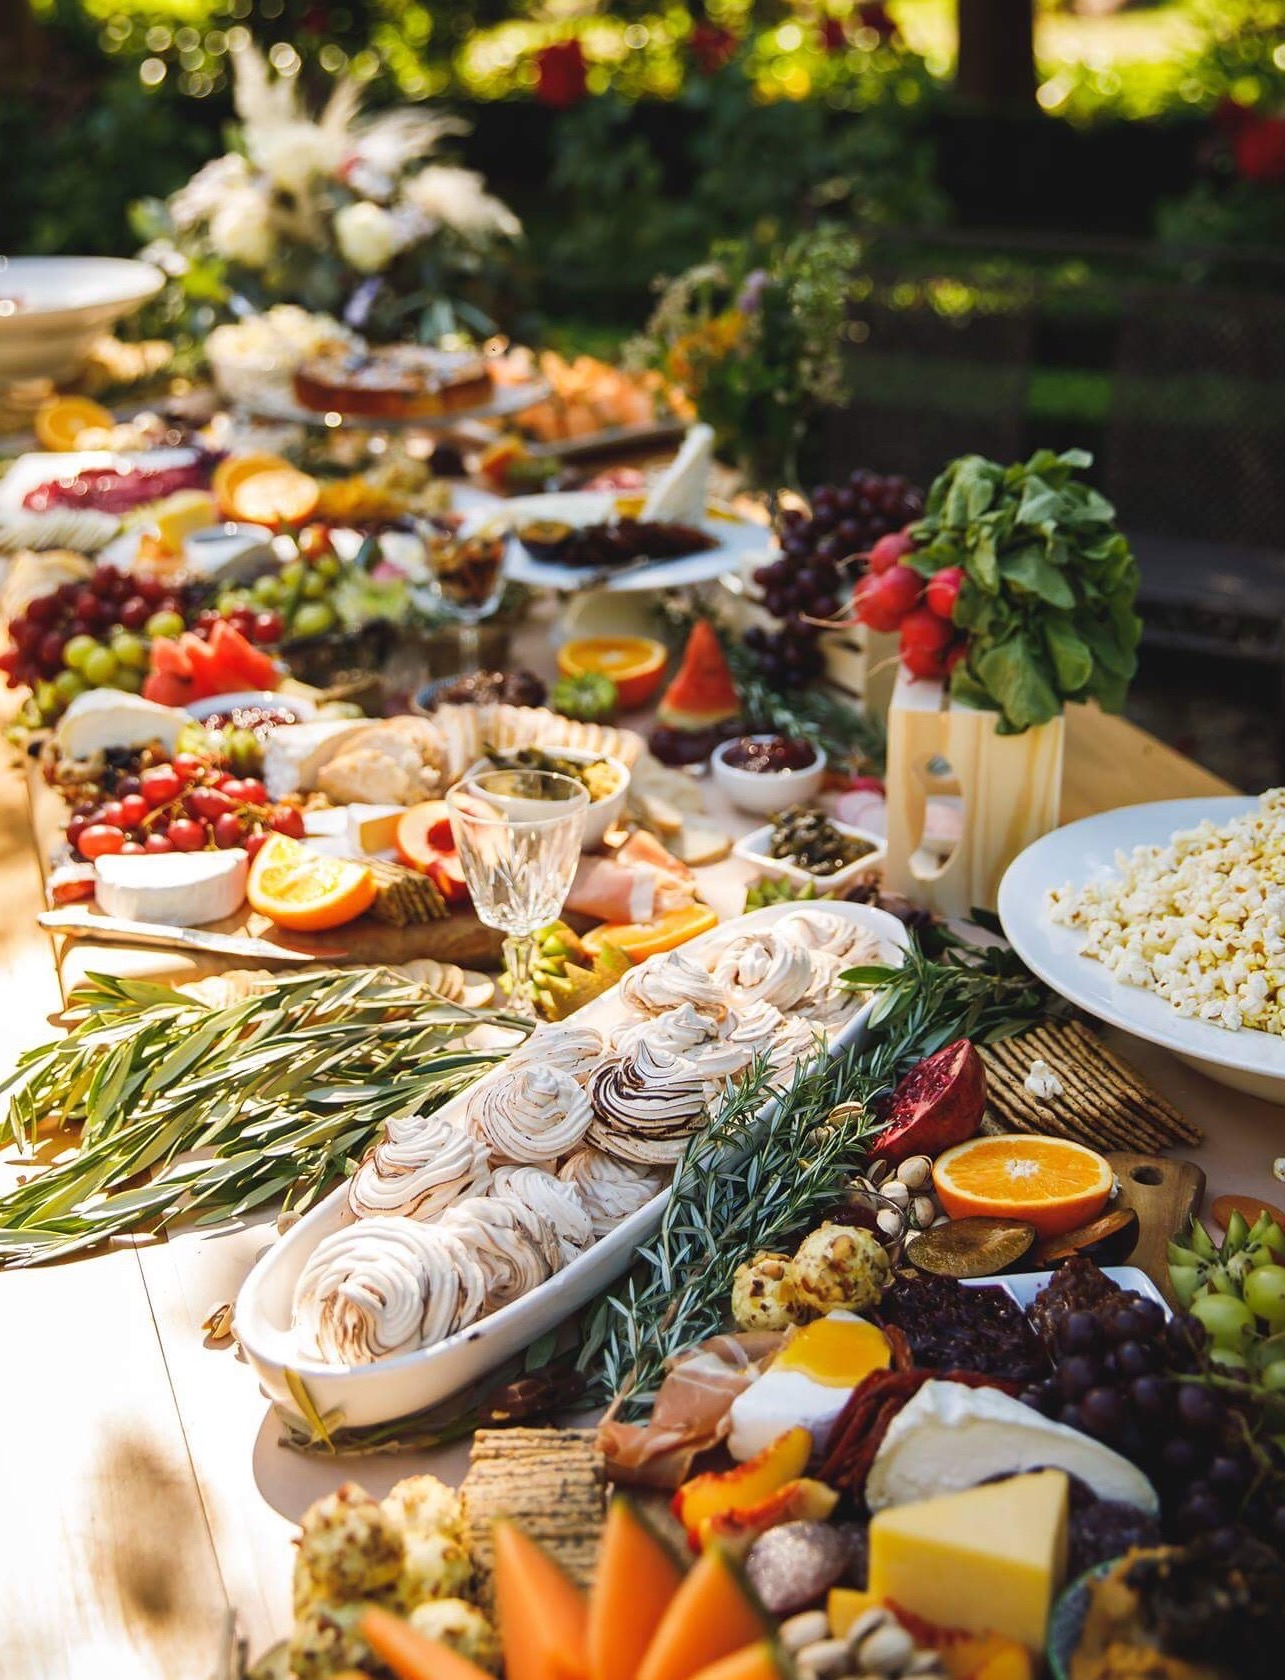
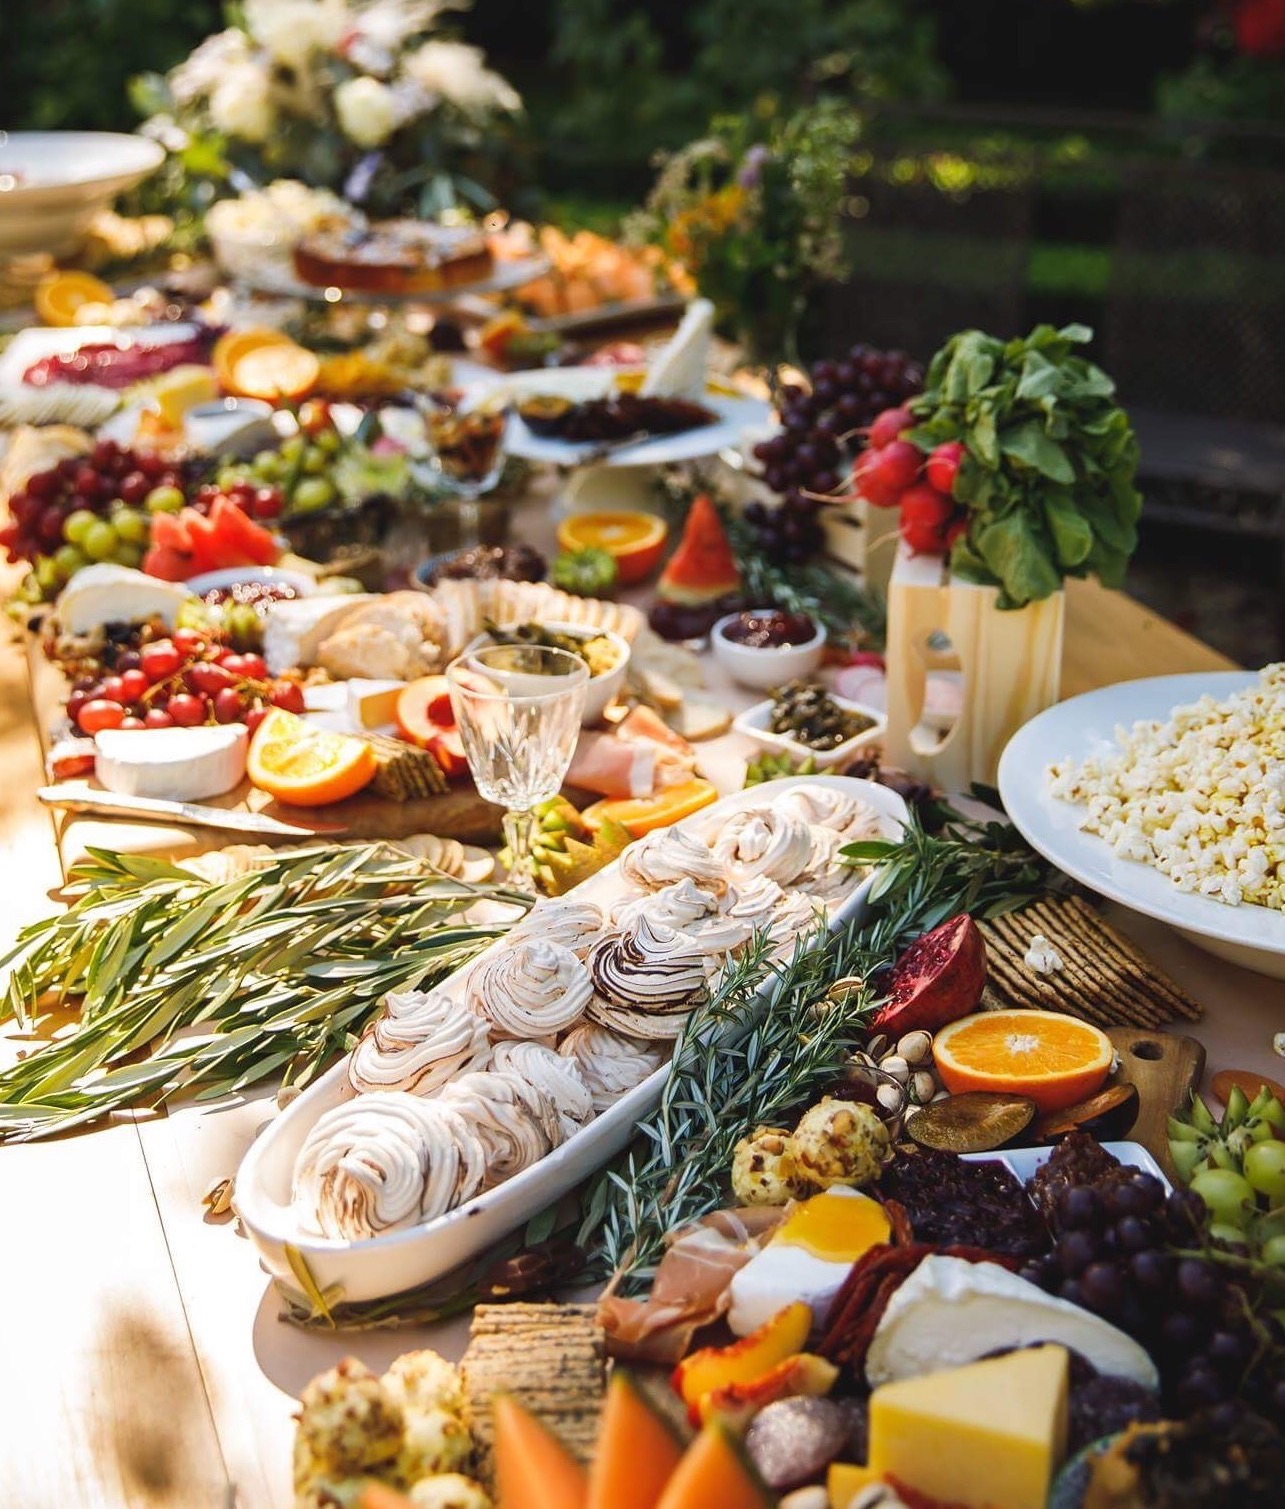
minor image adjustments

diff --git a/index.html b/index.html
@@ -18,22 +18,15 @@
     <img id="mobileImage" src="Images/PlatterMobile2.jpg" width="90%">
     <img id="desktopImage" src="Images/PlatterDesktop.jpg" width="90%">
   </div>
-  <div class="row col-md-12 justify-content-center text-center footer">
+  <div class="row col-md-12 justify-content-center footer">
     <h2> Website Coming Soon...</h2>
   </div>
-  <div class="col-md-6 offset-md-3 justify-content-center text-center footer">
+  <div class="col-md-6 offset-md-3 text-center footer">
     <a href="https://www.facebook.com/janinehomemade/"><i class="fab fa-facebook-f fa-3x"></i></a>
     <a href="https://www.instagram.com/janinehomemade_platters/"><i class="fab fa-instagram fa-3x"></i></a>
     <a href="mailto:janine.homemade@outlook.com"><i class="far fa-envelope fa-3x"></i></a>
   </div>
-    
   </div>
-<!--
-  <div class="footer row col-12 justify-content-center text-center">
-    <h1> Full Website Coming Soon</h1>  
-  </div>
--->
-  </div>  
   
   
   <script src="https://code.jquery.com/jquery-3.3.1.slim.min.js" integrity="sha384-q8i/X+965DzO0rT7abK41JStQIAqVgRVzpbzo5smXKp4YfRvH+8abtTE1Pi6jizo" crossorigin="anonymous"></script>

diff --git a/JanineHomemadeCSS.css b/JanineHomemadeCSS.css
@@ -13,7 +13,6 @@ html, body{
   justify-content : center;
 }
 .container{
-  margin-left: 15px;
   font-family: 'Anonymous Pro', monospace;
   color: #090952;
 }
@@ -21,7 +20,7 @@ html, body{
   margin-top: 20px;
 }
 .row{
-  margin-left: 0px !important;
+/*  margin-left: 0px !important;*/
 }
 .mid{
   padding-top: 10px;
@@ -49,9 +48,6 @@ i{
 
 /*Medium devices (tablets, 768px and up)*/
 @media (min-width: 768px) { 
-  #centerContent{
-    margin-top: 0px;
-  }
   #mobileImage{
   display: none;
 }
